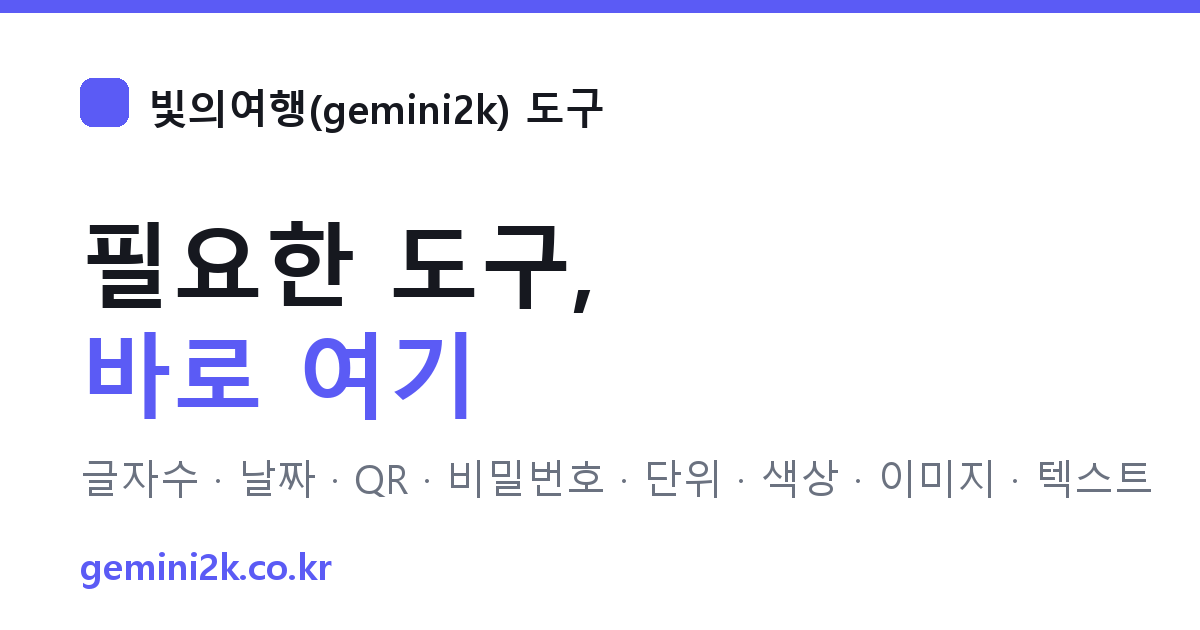
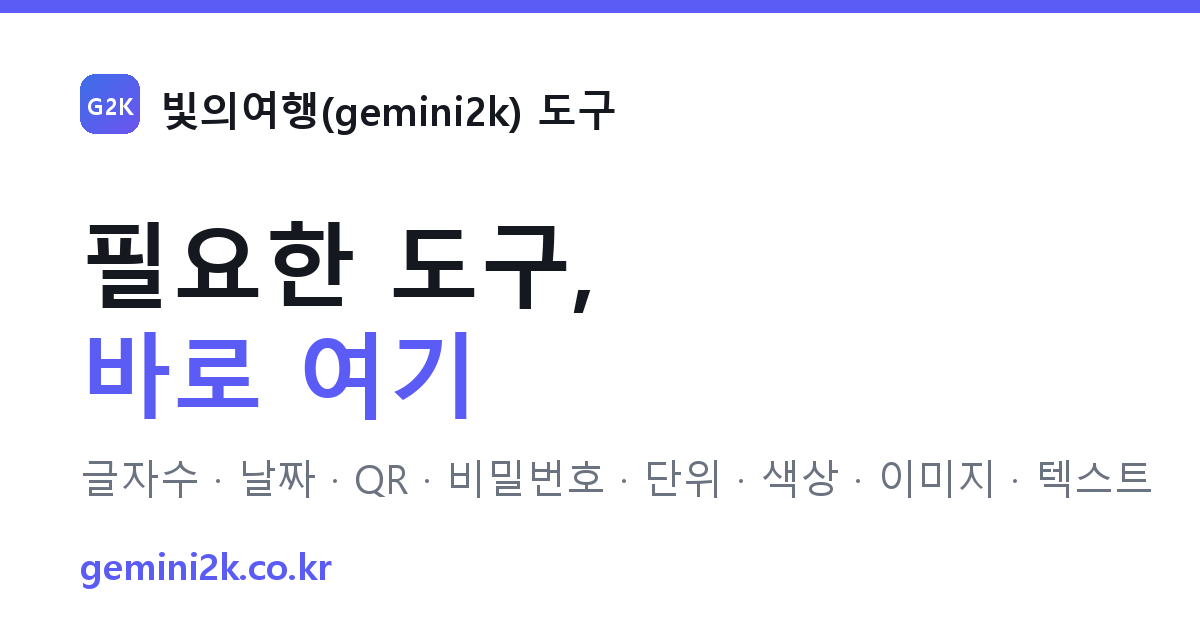
design: 로고 마크를 G2K 그라데이션으로 교체(이모지 제거) + OG 이미지 갱신

Changed region(s): [[0.0617, 0.1206, 0.5242, 0.2111]]

diff --git a/style.css b/style.css
@@ -24,8 +24,8 @@ button{font-family:inherit;cursor:pointer;}
   border-bottom:1px solid var(--border);}
 .top-in{max-width:var(--maxw);margin:0 auto;display:flex;align-items:center;gap:1rem;padding:.8rem 1.4rem;}
 .logo{display:flex;align-items:center;gap:.5rem;font-weight:800;font-size:1.12rem;letter-spacing:-.03em;}
-.logo .mk{width:26px;height:26px;border-radius:8px;display:grid;place-items:center;color:#fff;
-  background:linear-gradient(135deg,var(--accent),#8B5CF6);font-size:.9rem;}
+.logo .mk{width:30px;height:26px;border-radius:8px;display:grid;place-items:center;color:#fff;
+  background:linear-gradient(135deg,#3D6EE8,#6E54F0);font-size:.62rem;font-weight:800;letter-spacing:-.02em;}
 .top nav{margin-left:auto;display:flex;gap:.9rem;align-items:center;font-size:.92rem;color:var(--muted);font-weight:500;}
 .top nav a{white-space:nowrap;flex-shrink:0;}
 .top nav a:hover{color:var(--text);}

diff --git a/char-counter.html b/char-counter.html
@@ -22,7 +22,7 @@
 </head>
 <body>
 <header class="top"><div class="top-in">
-  <a class="logo" href="index.html"><span class="mk">🧰</span> 빛의여행(gemini2k) 도구</a>
+  <a class="logo" href="index.html"><span class="mk">G2K</span> 빛의여행(gemini2k) 도구</a>
   <nav><a href="index.html">전체 도구</a><a href="https://gemini2k.kr" target="_blank" rel="noopener">블로그</a></nav>
 </div></header>
 

diff --git a/color.html b/color.html
@@ -22,7 +22,7 @@
 </head>
 <body>
 <header class="top"><div class="top-in">
-  <a class="logo" href="index.html"><span class="mk">🧰</span> 빛의여행(gemini2k) 도구</a>
+  <a class="logo" href="index.html"><span class="mk">G2K</span> 빛의여행(gemini2k) 도구</a>
   <nav><a href="index.html">전체 도구</a><a href="https://gemini2k.kr" target="_blank" rel="noopener">블로그</a></nav>
 </div></header>
 

diff --git a/date-calc.html b/date-calc.html
@@ -22,7 +22,7 @@
 </head>
 <body>
 <header class="top"><div class="top-in">
-  <a class="logo" href="index.html"><span class="mk">🧰</span> 빛의여행(gemini2k) 도구</a>
+  <a class="logo" href="index.html"><span class="mk">G2K</span> 빛의여행(gemini2k) 도구</a>
   <nav><a href="index.html">전체 도구</a><a href="https://gemini2k.kr" target="_blank" rel="noopener">블로그</a></nav>
 </div></header>
 

diff --git a/image.html b/image.html
@@ -22,7 +22,7 @@
 </head>
 <body>
 <header class="top"><div class="top-in">
-  <a class="logo" href="index.html"><span class="mk">🧰</span> 빛의여행(gemini2k) 도구</a>
+  <a class="logo" href="index.html"><span class="mk">G2K</span> 빛의여행(gemini2k) 도구</a>
   <nav><a href="index.html">전체 도구</a><a href="https://gemini2k.kr" target="_blank" rel="noopener">블로그</a></nav>
 </div></header>
 

diff --git a/index.html b/index.html
@@ -23,7 +23,7 @@
 </head>
 <body>
 <header class="top"><div class="top-in">
-  <a class="logo" href="index.html"><span class="mk">🧰</span> 빛의여행(gemini2k) 도구</a>
+  <a class="logo" href="index.html"><span class="mk">G2K</span> 빛의여행(gemini2k) 도구</a>
   <nav>
     <select id="langsel" aria-label="language" style="padding:.4rem .6rem;border:1px solid var(--border);border-radius:8px;background:var(--surface);font-family:inherit;font-size:.88rem;color:var(--text);">
       <option value="ko">한국어</option><option value="en">English</option>

diff --git a/password.html b/password.html
@@ -22,7 +22,7 @@
 </head>
 <body>
 <header class="top"><div class="top-in">
-  <a class="logo" href="index.html"><span class="mk">🧰</span> 빛의여행(gemini2k) 도구</a>
+  <a class="logo" href="index.html"><span class="mk">G2K</span> 빛의여행(gemini2k) 도구</a>
   <nav><a href="index.html">전체 도구</a><a href="https://gemini2k.kr" target="_blank" rel="noopener">블로그</a></nav>
 </div></header>
 

diff --git a/qr.html b/qr.html
@@ -23,7 +23,7 @@
 </head>
 <body>
 <header class="top"><div class="top-in">
-  <a class="logo" href="index.html"><span class="mk">🧰</span> 빛의여행(gemini2k) 도구</a>
+  <a class="logo" href="index.html"><span class="mk">G2K</span> 빛의여행(gemini2k) 도구</a>
   <nav><a href="index.html">전체 도구</a><a href="https://gemini2k.kr" target="_blank" rel="noopener">블로그</a></nav>
 </div></header>
 

diff --git a/text-tools.html b/text-tools.html
@@ -22,7 +22,7 @@
 </head>
 <body>
 <header class="top"><div class="top-in">
-  <a class="logo" href="index.html"><span class="mk">🧰</span> 빛의여행(gemini2k) 도구</a>
+  <a class="logo" href="index.html"><span class="mk">G2K</span> 빛의여행(gemini2k) 도구</a>
   <nav><a href="index.html">전체 도구</a><a href="https://gemini2k.kr" target="_blank" rel="noopener">블로그</a></nav>
 </div></header>
 

diff --git a/unit.html b/unit.html
@@ -22,7 +22,7 @@
 </head>
 <body>
 <header class="top"><div class="top-in">
-  <a class="logo" href="index.html"><span class="mk">🧰</span> 빛의여행(gemini2k) 도구</a>
+  <a class="logo" href="index.html"><span class="mk">G2K</span> 빛의여행(gemini2k) 도구</a>
   <nav><a href="index.html">전체 도구</a><a href="https://gemini2k.kr" target="_blank" rel="noopener">블로그</a></nav>
 </div></header>
 

diff --git a/deploy/seo_build.py b/deploy/seo_build.py
@@ -67,9 +67,19 @@ def build_og():
         except Exception: return ImageFont.load_default()
     bd = "C:/Windows/Fonts/malgunbd.ttf"; rg = "C:/Windows/Fonts/malgun.ttf"
     f_brand = font(bd, 40); f_title = font(bd, 92); f_sub = font(rg, 40); f_url = font(bd, 36)
-    # 인디고 사각 마크 + 브랜드 텍스트 (이모지는 맑은고딕에 없어 두부됨 → 직접 그림)
-    d.rounded_rectangle([80, 78, 128, 126], radius=12, fill="#5B5BF5")
-    d.text((148, 80), SITE, font=f_brand, fill="#16181F")
+    # G2K 그라데이션 마크 (파랑→인디고) + 브랜드 텍스트
+    sq, gx, gy = 60, 80, 74
+    c1, c2 = (61, 110, 232), (110, 84, 240)
+    grad = Image.new("RGB", (sq, sq))
+    for y in range(sq):
+        for x in range(sq):
+            tt = (x + y) / (2 * sq)
+            grad.putpixel((x, y), tuple(int(c1[i] + (c2[i] - c1[i]) * tt) for i in range(3)))
+    mask = Image.new("L", (sq, sq), 0)
+    ImageDraw.Draw(mask).rounded_rectangle([0, 0, sq - 1, sq - 1], radius=15, fill=255)
+    img.paste(grad, (gx, gy), mask)
+    d.text((gx + sq // 2, gy + sq // 2), "G2K", font=font(bd, 24), fill="#FFFFFF", anchor="mm")
+    d.text((gx + sq + 20, 82), SITE, font=f_brand, fill="#16181F")
     d.text((80, 200), "필요한 도구,", font=f_title, fill="#16181F")
     d.text((80, 310), "바로 여기", font=f_title, fill="#5B5BF5")
     d.text((80, 450), "글자수 · 날짜 · QR · 비밀번호 · 단위 · 색상 · 이미지 · 텍스트", font=f_sub, fill="#6B7280")